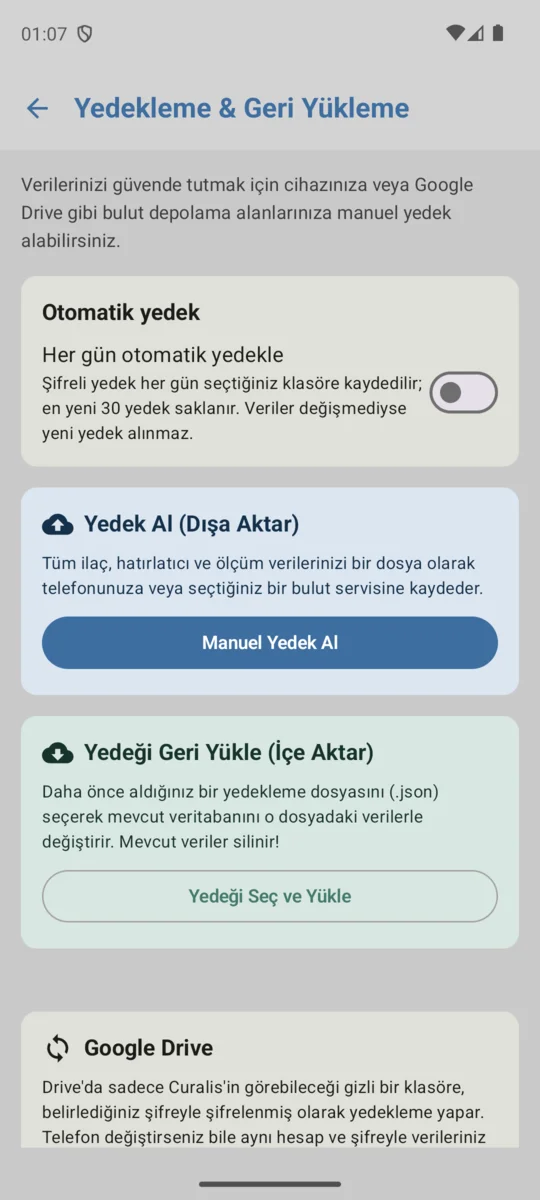
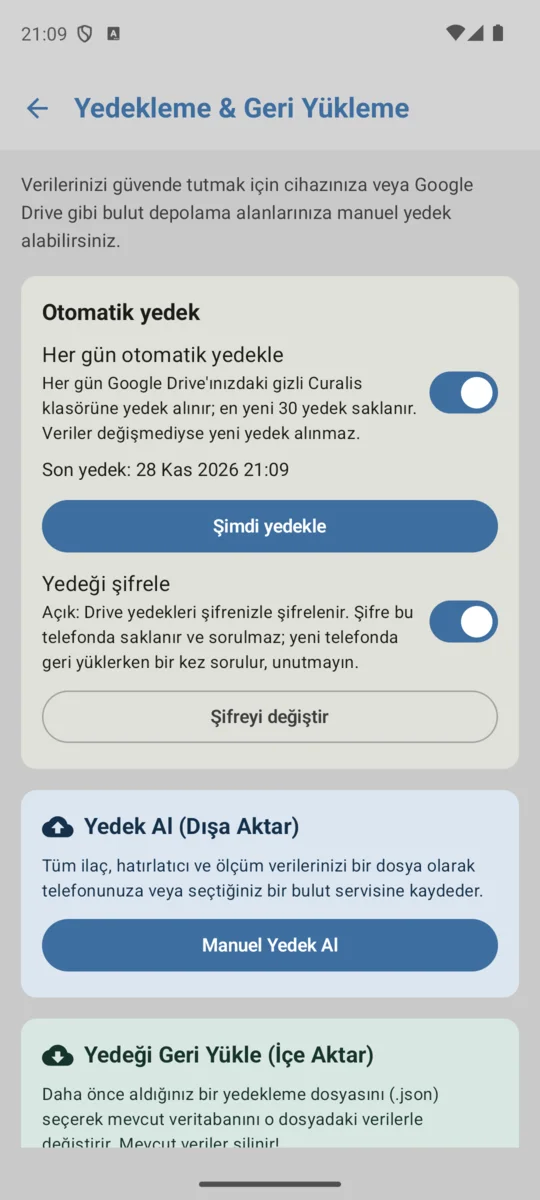
release: 1.9.0 (versionCode 17)
Automatic backup goes to Google Drive only and Drive backups no longer
ask for a password (optional "Encrypt backups"). README, badges and the
backup screenshot updated.

diff --git a/README.tr.md b/README.tr.md
@@ -7,7 +7,7 @@
 </p>
 
 <p align="center">
-  <a href="https://github.com/gokcank/Curalis/releases/latest"><img src="https://img.shields.io/badge/S%C3%BCr%C3%BCm-v1.8.0-blue?style=for-the-badge" alt="Son sürüm" /></a>
+  <a href="https://github.com/gokcank/Curalis/releases/latest"><img src="https://img.shields.io/badge/S%C3%BCr%C3%BCm-v1.9.0-blue?style=for-the-badge" alt="Son sürüm" /></a>
   <img src="https://img.shields.io/badge/Android-8.0%2B-3DDC84?style=for-the-badge&logo=android&logoColor=white" alt="Android 8.0+" />
   <img src="https://img.shields.io/badge/Kotlin-B125EA?style=for-the-badge&logo=kotlin&logoColor=white" alt="Kotlin" />
   <img src="https://img.shields.io/badge/Jetpack_Compose-4285F4?style=for-the-badge&logo=jetpackcompose&logoColor=white" alt="Jetpack Compose" />
@@ -50,8 +50,9 @@ Curalis, GitHub üzerinden APK olarak dağıtılır; Google Play'de yoktur.
 2. Dosyayı açın; Android sorarsa bu kaynaktan uygulama yüklemeye izin verin.
 3. Güncelleme: Yeni APK'yı eskisinin üzerine kurun. Verileriniz korunur.
 
-İlk açılıştan sonra *Ayarlar → Yedekleme & Geri Yükleme* bölümünden **otomatik yedeği açın** ve yedekleme şifresini
-bir yere not edin. Yedeklerinizi yeni bir telefonda açmak için bu şifre gerekir.
+İlk açılıştan sonra *Ayarlar → Yedekleme & Geri Yükleme* bölümünden Google Drive'a bağlanın ve **otomatik yedeği
+açın**. "Yedeği şifrele"yi açmadığınız sürece yedekler şifresizdir; açarsanız şifreyi bir yere not edin, yeni bir
+telefonda bir kez sorulur.
 
 ---
 
@@ -83,8 +84,10 @@ bir yere not edin. Yedeklerinizi yeni bir telefonda açmak için bu şifre gerek
 **Gizlilik ve veri güvenliği**
 - Veriler telefonda kalır. Hesap yok, reklam yok, analiz ya da izleme kütüphanesi yok.
 - İsteğe bağlı PIN ya da biyometrik uygulama kilidi; unutulan PIN telefonun kendi ekran kilidiyle sıfırlanabilir.
-- Şifreli yedekler (parolayla korunan): elle dışa aktarma, seçtiğiniz klasöre günlük otomatik yedek ve isteğe bağlı
-  olarak Google Drive'daki gizli uygulama klasörüne yedek. En yeni 30 otomatik yedek saklanır.
+- Google Drive'daki gizli uygulama klasörüne günlük otomatik yedek (en yeni 30 yedek saklanır) ve elle Drive yedeği;
+  şifre yazmak gerekmez. İsteğe bağlı "Yedeği şifrele": şifre bir kez belirlenir, telefonda saklanır, yalnızca yeni
+  telefonda sorulur. Kapalıyken Drive yedekleri Google hesabınızla korunur ama Google'ın sunucusunda okunabilir.
+- Dosyaya elle dışa aktarma; her zaman girdiğiniz şifreyle şifrelenir.
 - Veri dosyası bir gün bozulursa, hiçbir şey silinmeden önce bir kopyası saklanır.
 
 Her sürümdeki değişiklikler için [CHANGELOG.md](CHANGELOG.md) dosyasına bakın (İngilizce).
@@ -104,13 +107,13 @@ Kullanım senaryoları (Android'den bağımsız iş mantığı)
       │
 Depolar (repository)
  ┌────┴──────────────────┬──────────────────────┐
-Room veritabanı   TİTCK sözlüğü (SQLite)   Yedek hedefleri (klasör, Google Drive)
+Room veritabanı   TİTCK sözlüğü (SQLite)   Yedekler (Google Drive, dosyaya aktarma)
 ```
 
 - **Dil:** Kotlin, Coroutines, Flow
 - **Arayüz:** Jetpack Compose, Material 3, Glance (widget)
 - **Bağımlılık enjeksiyonu:** Hilt
-- **Depolama:** Room; saklanan yedekleme şifresi için Android Keystore
+- **Depolama:** Room; isteğe bağlı saklanan yedekleme şifresi için Android Keystore
 - **Zamanlama:** AlarmManager (kesin alarmlar), WorkManager
 - **PDF:** Android `PdfDocument`
 - **Barkod:** Google Play hizmetleri kod tarayıcısı (kamera izni gerekmez)

diff --git a/README.md b/README.md
@@ -7,7 +7,7 @@
 </p>
 
 <p align="center">
-  <a href="https://github.com/gokcank/Curalis/releases/latest"><img src="https://img.shields.io/badge/Release-v1.8.0-blue?style=for-the-badge" alt="Latest release" /></a>
+  <a href="https://github.com/gokcank/Curalis/releases/latest"><img src="https://img.shields.io/badge/Release-v1.9.0-blue?style=for-the-badge" alt="Latest release" /></a>
   <img src="https://img.shields.io/badge/Android-8.0%2B-3DDC84?style=for-the-badge&logo=android&logoColor=white" alt="Android 8.0+" />
   <img src="https://img.shields.io/badge/Kotlin-B125EA?style=for-the-badge&logo=kotlin&logoColor=white" alt="Kotlin" />
   <img src="https://img.shields.io/badge/Jetpack_Compose-4285F4?style=for-the-badge&logo=jetpackcompose&logoColor=white" alt="Jetpack Compose" />
@@ -50,8 +50,9 @@ Curalis is distributed as an APK on GitHub; it is not on Google Play.
 2. Open the file and allow installing apps from this source when Android asks.
 3. Updates: install the new APK over the old one. Your data is kept.
 
-After the first start, turn on **automatic backup** in *Settings → Backup & Restore* and write down the backup
-password. You need it to open your backups on a new phone.
+After the first start, connect Google Drive in *Settings → Backup & Restore* and turn on **automatic backup**.
+Backups are not encrypted unless you turn on "Encrypt backups"; if you do, write the password down: a new phone asks
+for it once.
 
 ---
 
@@ -83,8 +84,10 @@ password. You need it to open your backups on a new phone.
 **Privacy and data safety**
 - Data stays on the phone. No account, no ads, no analytics or tracking libraries.
 - Optional app lock with a PIN or biometrics; a forgotten PIN can be reset with the phone's own screen lock.
-- Encrypted backups (password-protected): manual export, daily automatic backup to a folder you choose, and optional
-  Google Drive backup to a hidden app folder. The 30 newest automatic backups are kept.
+- Daily automatic backup to a hidden app folder in your Google Drive (the 30 newest are kept) and manual Drive backups,
+  with no password to type. Optional "Encrypt backups": a password set once, stored on the phone, asked only on a new
+  phone. Without it, Drive backups are protected by your Google account but readable on Google's servers.
+- Manual export to a file, always encrypted with a password you enter.
 - If the database file is ever damaged, a copy is kept before anything is deleted.
 
 See [CHANGELOG.md](CHANGELOG.md) for the changes in each release.
@@ -104,13 +107,13 @@ Use cases (framework-independent business logic)
       │
 Repositories
  ┌────┴───────────────┬──────────────────────┐
-Room database   TİTCK dictionary (SQLite)   Backup targets (folder, Google Drive)
+Room database   TİTCK dictionary (SQLite)   Backups (Google Drive, file export)
 ```
 
 - **Language:** Kotlin, Coroutines, Flow
 - **UI:** Jetpack Compose, Material 3, Glance (widget)
 - **Dependency injection:** Hilt
-- **Storage:** Room; Android Keystore for the stored backup password
+- **Storage:** Room; Android Keystore for the optional stored backup password
 - **Scheduling:** AlarmManager (exact alarms), WorkManager
 - **PDF:** Android `PdfDocument`
 - **Barcode:** Google Play services code scanner (no camera permission)

diff --git a/CHANGELOG.md b/CHANGELOG.md
@@ -2,6 +2,23 @@
 
 All notable changes to Curalis are documented in this file.
 
+## [1.9.0] — versionCode 17
+
+Simpler backups (ADR-013).
+
+- **Automatic backup goes to Google Drive only.** Connect Drive and turn it on; no folder and no password are
+  asked. One backup a day goes to Curalis's hidden folder in your Drive and the 30 newest are kept. The phone folder
+  option is gone; disconnecting Drive turns automatic backup off.
+- **No more password prompts for Drive.** Drive backups are unencrypted by default (protected by your Google account,
+  but readable on Google's servers; the app says so). The new "Encrypt backups" option encrypts them with a password
+  set once and stored on the phone; it is asked only when restoring on a phone that does not have it.
+- **Restoring from Drive** opens unencrypted backups directly and encrypted ones with the stored password; otherwise
+  the password is asked once (again after a wrong one) and kept.
+- Upgrading from 1.8.0: an automatic backup that also went to Drive continues there, encrypted; a folder-only one is
+  turned off. Backup files already in the folder are left alone.
+- Help texts and the welcome message no longer promise encrypted backups.
+- The manual file export still asks for a password and is always encrypted.
+
 ## [1.8.0] — versionCode 16
 
 Data safety for everyday use (ADR-011).
